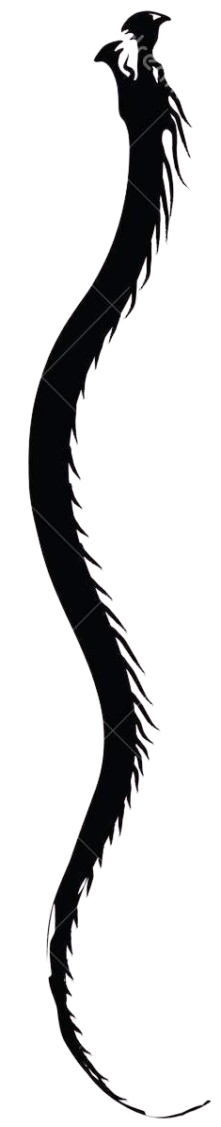
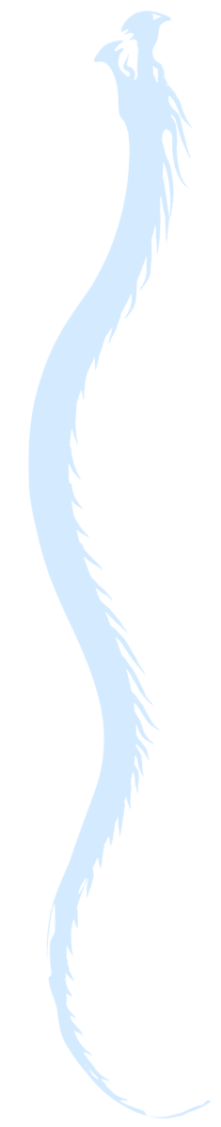
loga + aside klar (ändring på drake)

Changed region(s): [[0.1086, 0.0, 0.8688, 0.9938], [0.7602, 0.9627, 0.9502, 0.9938]]

diff --git a/style.css b/style.css
@@ -1,11 +1,20 @@
 body{
     display: grid;
-    grid-template-columns: 1fr 2fr;
+    grid-template-columns: 1fr 4fr;
     grid-template-rows: 15vh 15vh 70vh 15vh;
+    gap: 5px;
 }
 
 .loga{
     grid-area: 1/1/2/2;
+    display: flex;
+    justify-content: center;
+
+    border: 2px solid black;
+    border-radius: 3px;
+}
+.bild{
+    max-height: 100%;
 }
 
 header{
@@ -18,6 +27,12 @@ nav{
 
 aside{
     grid-area: 2/1/5/2;
+    display: flex;
+    justify-content: center;
+    background-image: url(./img/background.jpg);
+
+    border: 2px solid black;
+    border-radius: 3px;
 }
 
 main{

diff --git a/index.html b/index.html
@@ -8,7 +8,7 @@
 </head>
 <body>
     <div class="loga">
-        <img src="./img/logo.png" alt="loga">
+        <img class="bild" src="./img/logo.png" alt="loga">
     </div>
 
     <header>
@@ -24,7 +24,7 @@
     </nav>
 
     <aside>
-        <img src="./img/dragon_side-removebg-preview.png" alt="drake">
+        <img class="bild" src="./img/dragon_side-removebg-preview.png" alt="drake">
     </aside>
 
     <main>
